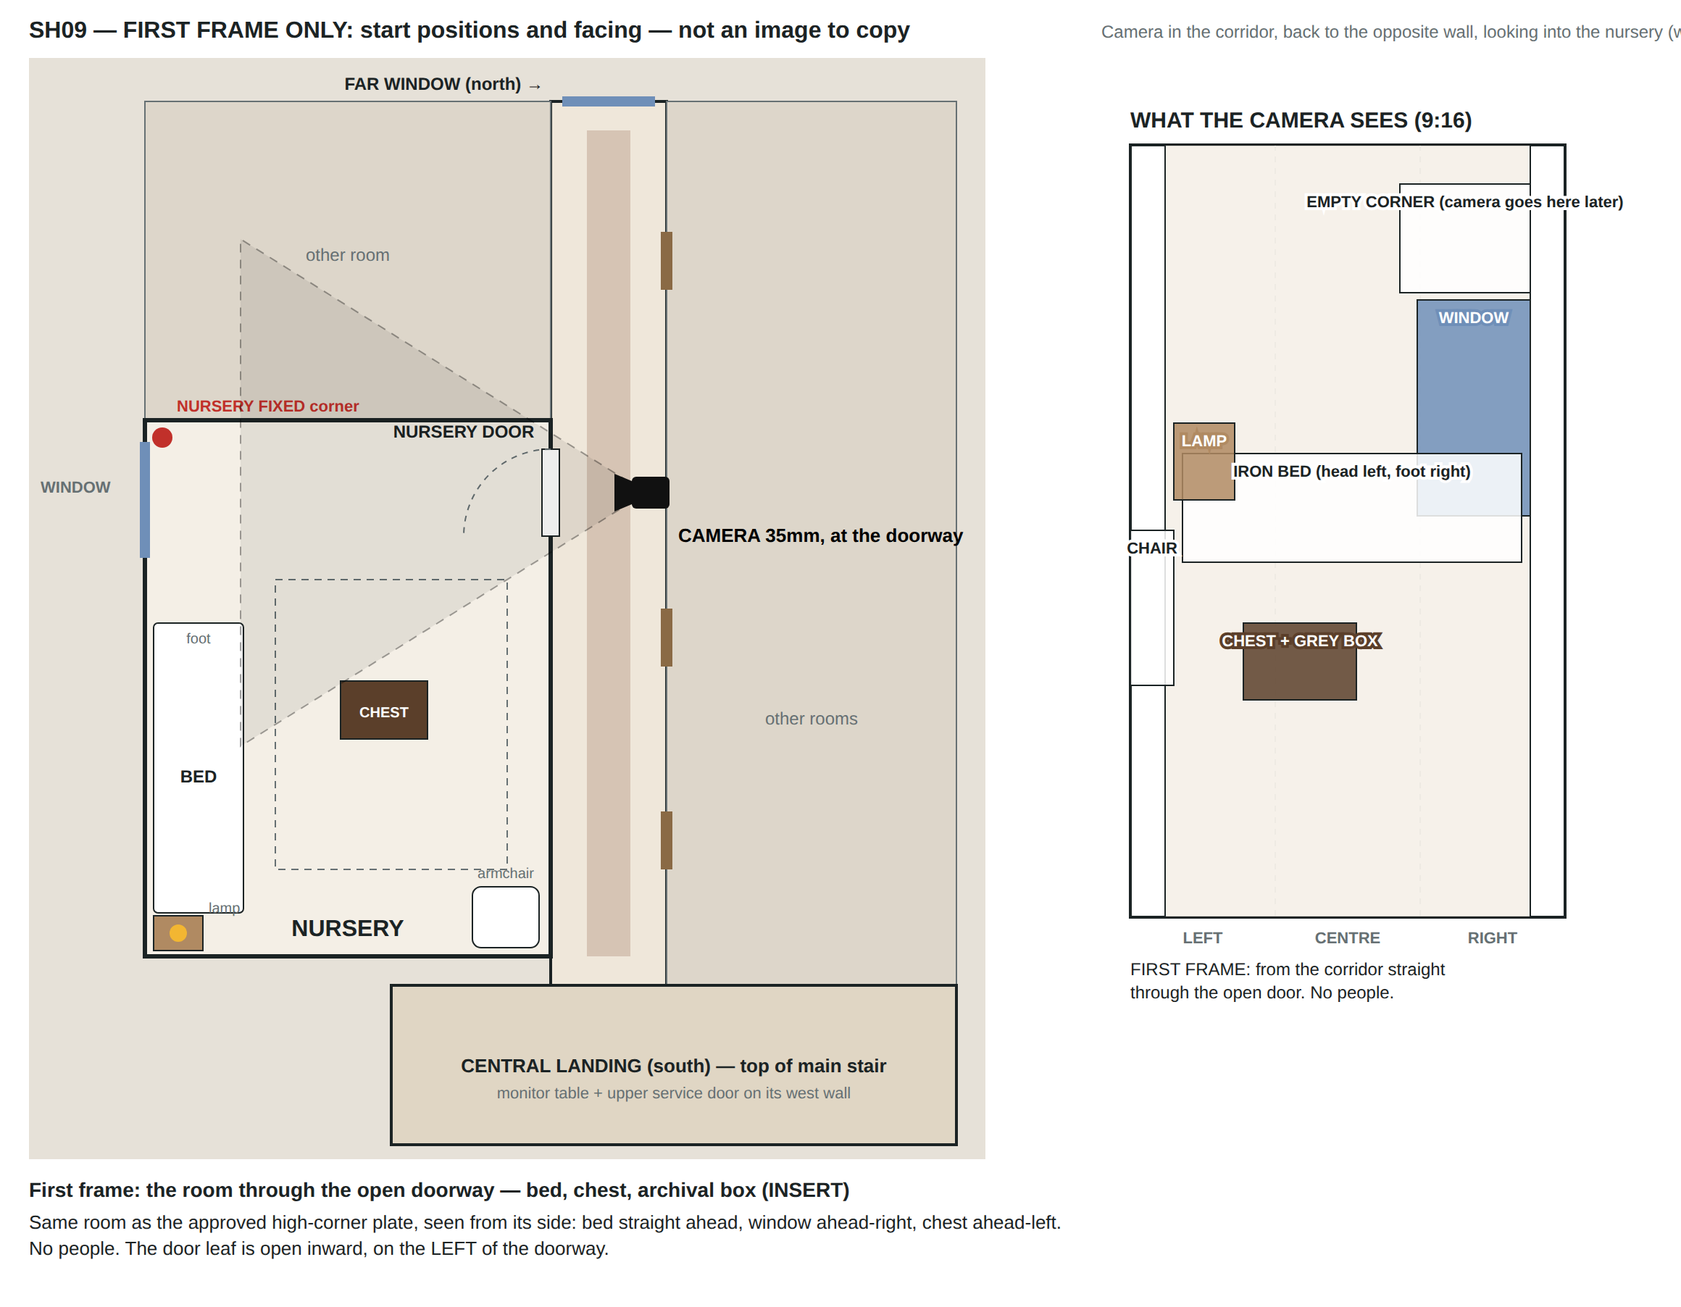
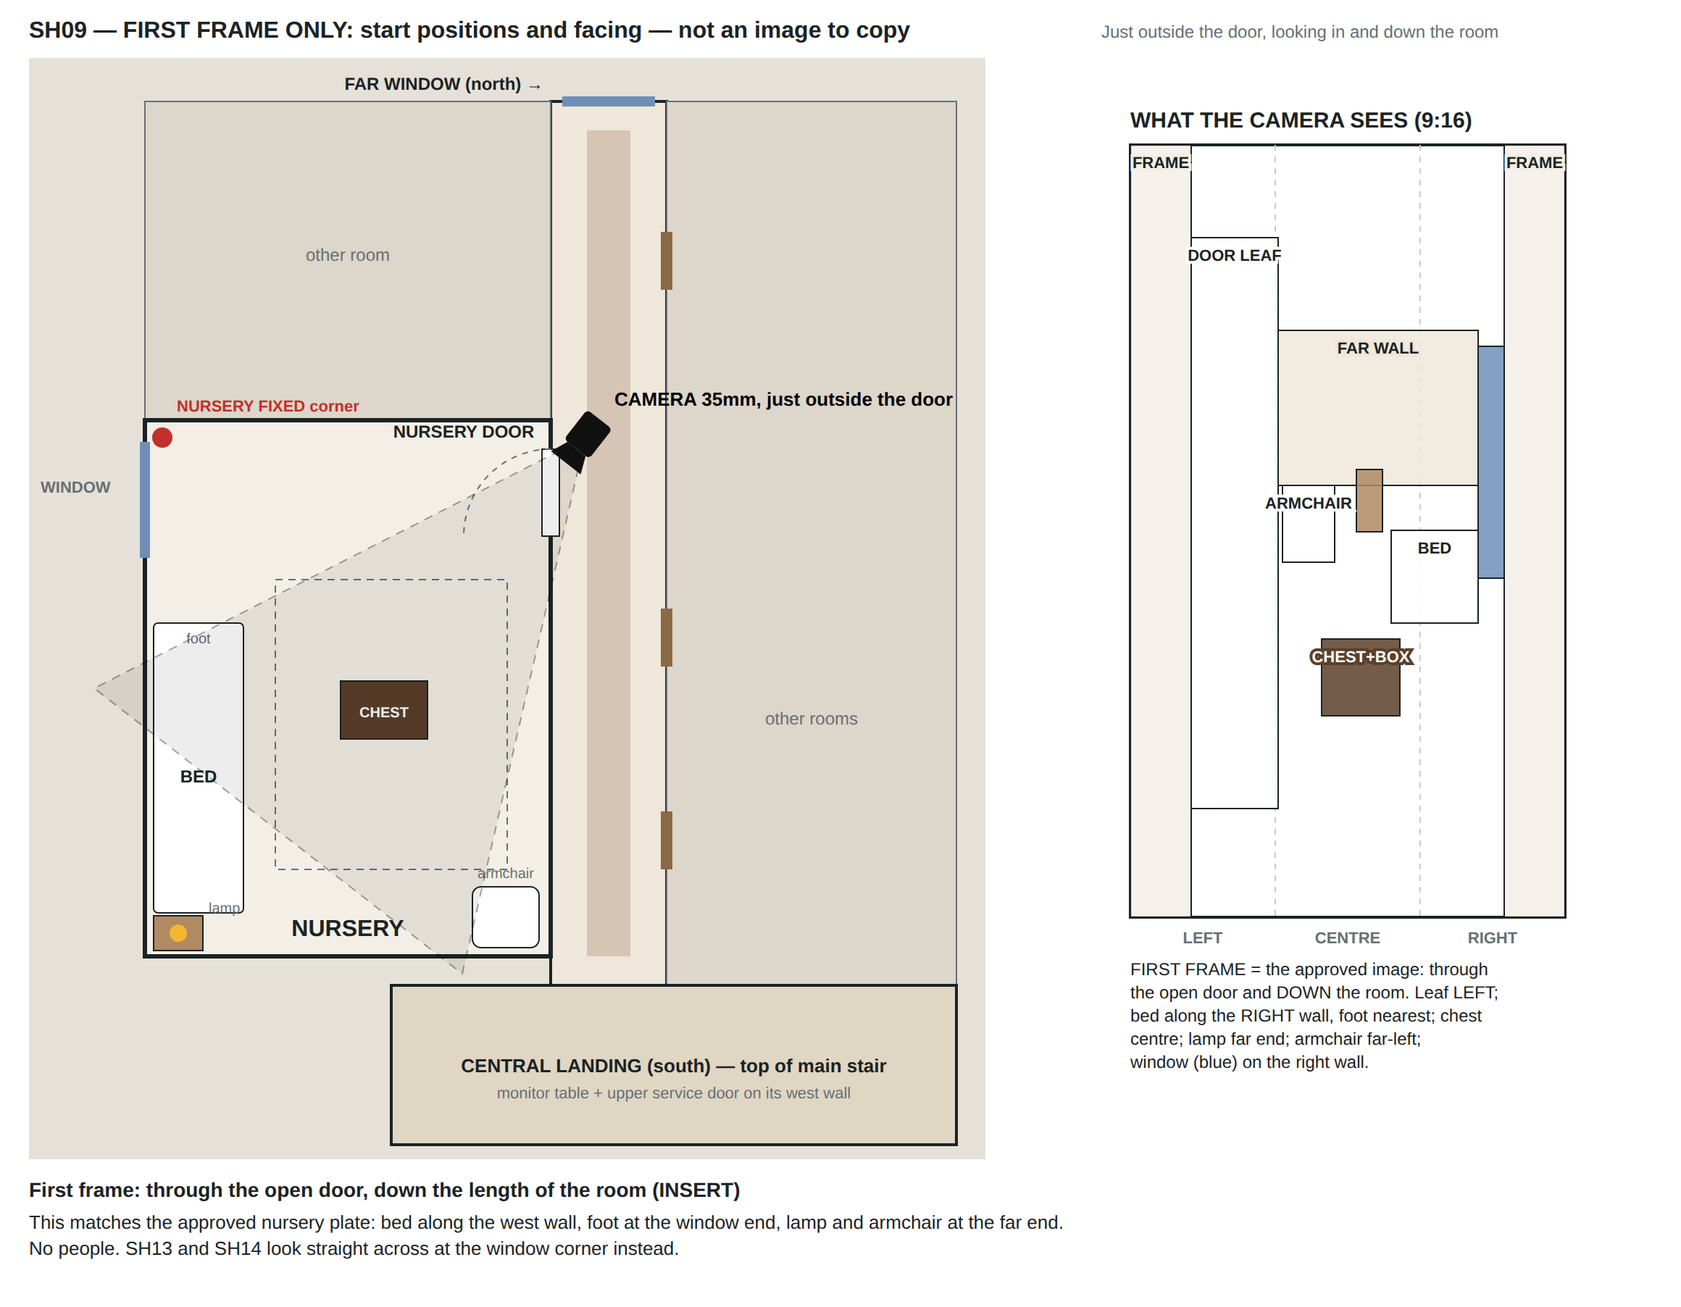
SH09: adopt the generated down-the-room doorway view as the plate
The models kept producing the nursery seen down its length (door leaf on
the left, bed along the right wall with its foot nearest, chest centre,
lamp and armchair at the far end). That is exactly what the approved
high-corner plate implies from that door, whereas the prompt asked for a
straight-across view that the uploaded plate contradicts.

- LOC_NURSERY_DOORWAY_DAY now describes the approved frame (prompt,
  checklist, note); the SH09 blocking and map match it.
- SH13 uses the high-corner plate and SH14 the corridor plate, because
  both look straight across at the window corner.
- The night doorway edit and the corridor map text are aligned. SH30 is
  flagged to show the REC light later.
- Continuity rules and notes record the lesson.

Claude-Session: https://claude.ai/code/session_01MJ23cbnzmfztqsRaFx1Dvm

diff --git a/src/data/assets.ts b/src/data/assets.ts
@@ -58,7 +58,7 @@ export const MAPS = {
   },
   corridor: {
     title: 'Upper corridor',
-    text: 'Plan (north up): the corridor runs straight from the central landing (south end) to a tall window at the far north end. The nursery lies along its LEFT (west) side when you walk from the landing toward the far window. The nursery door is in the corridor’s left wall near the NORTH end of the nursery: about six metres from the landing and about three metres before the far window. It is the same white four-panel door with a brass knob and moulded surround seen inside the nursery; it opens INTO the room and is hinged on its left as seen from the corridor. Standing in the corridor facing the open door: straight ahead the white iron bed along the room’s far wall, its foot to the right, the window with thin curtains at its right end; ahead-left the dark chest with the grey box on the rug, the bedside table and lamp at the bed head, the dust-sheeted armchair in the deep left corner; high in the corner ahead-RIGHT, above the window, is where NURSERY FIXED hangs. From the nursery door you can see down the corridor to the landing, the monitor table and the upper service door. At night one warm sconce is lit between the landing and the nursery door.',
+    text: 'Plan (north up): the corridor runs straight from the central landing (south end) to a tall window at the far north end. The nursery lies along its LEFT (west) side when you walk from the landing toward the far window. The nursery door is in the corridor’s left wall near the NORTH end of the nursery: about six metres from the landing and about three metres before the far window. It is the same white four-panel door with a brass knob and moulded surround seen inside the nursery; it opens INTO the room and is hinged on its left as seen from the corridor. Standing in the corridor facing the open door: straight ahead the white iron bed along the room’s far wall, its foot to the right, the window with thin curtains at its right end; ahead-left the dark chest with the grey box on the rug, the bedside table and lamp at the bed head, the dust-sheeted armchair in the deep left corner; high in the corner ahead-RIGHT, above the window, is where NURSERY FIXED hangs. From the nursery door you can see down the corridor to the landing, the monitor table and the upper service door. At night one warm sconce is lit between the landing and the nursery door. Looking in through the open door toward the far (landing) end of the room — the approved doorway frame used in SH09 — the door leaf is on the LEFT, the bed runs along the RIGHT wall with its foot nearest the door, the window is on the right wall beside the foot, the chest with the grey box is in the centre, the lamp is at the bed head at the far end and the dust-sheeted armchair is far-left.',
   },
   nursery: {
     title: 'Nursery (NURSERY FIXED geometry)',
@@ -597,16 +597,16 @@ export const ASSETS: Asset[] = [
   {
     file: 'LOC_NURSERY_DOORWAY_DAY.png',
     kind: 'location',
-    title: 'Nursery seen from the corridor through the doorway, day',
-    ref: 'the daytime photo taken from the corridor looking through the open white nursery door into the room',
-    prompt: `Using the uploaded high-corner nursery photo for the room, furniture and wallpaper, and the uploaded corridor photo for the corridor and the door: camera in the upper corridor with its back against the corridor wall opposite the nursery door, eye level, 35mm, looking straight through the wide-open white four-panel door (brass knob, moulded white surround, the door leaf swung open INTO the room against the inner wall on the LEFT). In the foreground a strip of corridor floor with the worn runner. Through the doorway, the same room seen from its side: straight ahead the white iron bed runs along the far wall of this view, its foot to the RIGHT and its head to the LEFT; on the right, beside the foot of the bed, the window with thin white curtains letting in daylight, and high up in the corner above it, empty wall where a camera will be mounted; ahead-left, on the faded rug in the middle of the room, the dark wooden chest with the grey archival box on its lid; at the left end of the bed, the bedside table with its lamp (switched off); deep on the left, the armchair under a white dust sheet in the corner. No camera mounted anywhere yet. No people. ${LOOKS.dayInterior}`,
+    title: 'Nursery through the open door, looking down the room, day — APPROVED frame',
+    ref: 'the daytime photo from the corridor through the open white nursery door, looking down the length of the room: door leaf open on the left, bed along the right wall, chest with the grey box in the centre',
+    prompt: `Using the uploaded high-corner nursery photo for the room, furniture and wallpaper, and the uploaded corridor photo for the corridor floor and the door: photorealistic, vertical 9:16, no people. Camera in the upper corridor just outside the open nursery door, eye level, 35mm, looking in through the doorway and down the length of the room toward its far end. The white door with its brass knob stands wide open INTO the room, hinged on the LEFT, its leaf against the wall on the LEFT of the doorway; the moulded white surround frames the view; in the foreground the dark corridor floorboards and the edge of the worn runner. Inside, the room runs away from the door: the faded rug from the threshold, with the dark wooden chest at the centre of the frame and the grey archival box on its lid; the white iron bed with faded floral linen along the RIGHT-hand wall, its foot nearest the door and its head at the far wall; the window with thin white curtains on the right-hand wall beside the foot of the bed, letting in soft daylight; at the far end the small bedside table with its lamp (switched off) beside the head of the bed, and in the far-LEFT corner an armchair under a white dust sheet with two removal boxes beside it. Pale sprigged wallpaper with pale rectangles where pictures hung. No camera mounted anywhere, no people. ${LOOKS.dayInterior}`,
     uploads: [
       { file: 'LOC_NURSERY_FIXED_DAY.png', job: 'the room: furniture, wallpaper, positions' },
       { file: 'LOC_CORRIDOR_DAY.png', job: 'the corridor floor, runner and door' },
     ],
-    check: ['Door leaf open inward on the LEFT', 'Bed straight ahead, foot to the right; window and curtains ahead-right', 'Chest with the grey box ahead-left on the rug; bedside table and lamp at the bed head; armchair deep left', 'The high corner ahead-right above the window is empty (no camera yet)', 'Same door, wallpaper, bed and chest as the high-corner photo'],
+    check: ['Door leaf open inward on the LEFT, hinged on the left', 'Looking DOWN the room: bed along the RIGHT wall, foot nearest the door, head at the far wall', 'Window with thin curtains on the right wall beside the foot of the bed', 'Chest with the grey box at the centre on the rug; lamp table at the bed head; dust-sheeted armchair far-LEFT', 'Same door (panels, brass knob), wallpaper, bed and chest as the high-corner photo', 'No camera, no people'],
     group: 'Nursery',
-    note: 'Used for SH09 (clean view), SH13 (handheld POV) and SH14–SH16 (corridor angle). From the corridor, the landing is to the LEFT.',
+    note: 'APPROVED: the generated frame that looks down the room is correct and matches the high-corner plate. Keep it; regenerate only if the door does not match the nursery door (check the panel count against the high-corner photo). Start frame of SH09 only. SH13 and SH14 look straight across the room at the window corner instead, so they do not use this image as their frame.',
   },
   {
     file: 'LOC_NURSERY_DOORWAY_NIGHT.png',
@@ -614,7 +614,7 @@ export const ASSETS: Asset[] = [
     title: 'Nursery seen from the corridor through the doorway, night (edit)',
     ref: 'the night photo taken from the corridor looking through the open white nursery door, with the lamp on inside and a small red camera light high in the far corner',
     editOf: 'LOC_NURSERY_DOORWAY_DAY.png',
-    prompt: 'Edit the uploaded photo looking from the corridor through the open nursery door: identical camera and geometry, nothing moved. Night: inside, the small lamp on the bedside table at the head of the bed (ahead-left) is ON, making a dim warm pool over the bed head, the rug and the chest with the grey box; the window ahead-right is dark with a faint cool edge on the curtains; high in the corner ahead-right above the window there is now a compact black camera on a small wall bracket with a small glowing red REC light. The corridor foreground is in dim warm sconce light. Deep readable shadow. No people, no text.',
+    prompt: 'Edit the uploaded photo looking from the corridor through the open nursery door and down the room: identical camera and geometry, nothing moved. Night: inside, the small lamp on the bedside table at the far end beside the head of the bed is ON, making a dim warm pool over the bed head, the rug and the chest with the grey box; the window on the right wall is dark with a faint cool edge on the curtains; high on the right, where the right-hand wall meets the door wall just out of view, a faint red glow from the small camera light touches the ceiling edge. The corridor foreground is in dim warm sconce light. Deep readable shadow. No people, no text.',
     uploads: [
       { file: 'LOC_NURSERY_DOORWAY_DAY.png', job: 'exact geometry' },
       { file: 'PROP_FIXED_CAM.png', job: 'the camera on its wall bracket' },

diff --git a/src/data/shots.ts b/src/data/shots.ts
@@ -546,7 +546,7 @@ export const SHOTS: Shot[] = [
     lens: '35mm',
     size: 'INSERT',
     setup: 'COR-DOOR through the doorway',
-    blocking: 'Plate framing: from the corridor straight through the open white door into the nursery. The iron bed straight ahead along the far wall (foot to the right), the window and curtains ahead-right, the chest with the grey box ahead-left on the rug, the bedside table and lamp at the bed head, the dust-sheeted armchair deep left; the high corner ahead-right above the window is still empty.',
+    blocking: 'Plate framing (the approved frame): from the corridor through the open white door and down the length of the nursery. The door leaf open on the LEFT; the bed along the RIGHT wall, foot nearest the door; the window with thin curtains on the right wall beside the foot of the bed; the chest with the grey box at the centre on the rug; the lamp table at the bed head at the far end; the dust-sheeted armchair far-left. No camera mounted yet.',
     states: [{ thing: 'nurseryDoor', start: 'ALREADY WIDE OPEN' }],
     people: [],
     map: '/maps/SH09_map.png',
@@ -557,7 +557,7 @@ export const SHOTS: Shot[] = [
       saveAs: 'LOC_NURSERY_DOORWAY_DAY.png',
     },
     video: {
-      camera: 'Gimbal gliding slowly left to right past the open doorway at eye level.',
+      camera: 'Gimbal drifting slowly and slightly to the right at eye level, as if walking past the open doorway.',
       setting: 'A small, sunlit child’s room seen from the corridor.',
       beats: [
         { t: [0, 3], text: 'The camera glides past the open doorway, holding one clean view into the room: the simple white iron bed, the low wooden chest, the grey archival box on its lid. Dust hangs in the pale light. Nothing in the room moves.' },
@@ -704,7 +704,7 @@ export const SHOTS: Shot[] = [
     title: 'Handheld from Elias at the doorway: Mara mounts NURSERY FIXED in the high corner; its preview shows door, box and open depth.',
     cam: 'handheld',
     operator: 'elias',
-    location: 'LOC_NURSERY_DOORWAY_DAY.png',
+    location: 'LOC_NURSERY_FIXED_DAY.png',
     time: 'day',
     lens: '35mm',
     size: 'MS',
@@ -719,7 +719,7 @@ export const SHOTS: Shot[] = [
     map: '/maps/SH13_map.png',
     kf: {
       mode: 'generate',
-      uploads: [up('LOC_NURSERY_DOORWAY_DAY.png', 'the room seen from the doorway — keep'), sheet('mara'), up('PROP_FIXED_CAM.png', 'the camera on its wall bracket'), mapUp('SH13')],
+      uploads: [up('LOC_NURSERY_FIXED_DAY.png', 'the same room: wallpaper, window, bed and chest — this shot looks from the doorway straight across at the corner where that photo was taken from'), sheet('mara'), up('PROP_FIXED_CAM.png', 'the camera on its wall bracket'), mapUp('SH13')],
       frame: 'Concentrated, quick, precise hands.',
       saveAs: 'KF_SH13.png',
     },
@@ -745,7 +745,7 @@ export const SHOTS: Shot[] = [
     covers: ['D3', 'D4', 'D5'],
     title: 'Corridor angle: Owen passes with BELL BOARD FIXED and his pouch, Naomi behind with her recorder. ELIAS: “Very polite house so far.” MARA: “You’ve been here twenty minutes.”',
     cam: 'tripod',
-    location: 'LOC_NURSERY_DOORWAY_DAY.png',
+    location: 'LOC_CORRIDOR_DAY.png',
     time: 'day',
     lens: '35mm',
     size: 'MWS',
@@ -763,7 +763,7 @@ export const SHOTS: Shot[] = [
     map: '/maps/SH14_map.png',
     kf: {
       mode: 'generate',
-      uploads: [up('LOC_NURSERY_DOORWAY_DAY.png', 'corridor, doorway and room — keep'), sheet('elias'), sheet('owen'), up('CH_LINEUP.png', 'identities of the woman in the corner and the woman with locs, and everyone’s heights'), mapUp('SH14')],
+      uploads: [up('LOC_CORRIDOR_DAY.png', 'the corridor, the white nursery door and its surround, wallpaper and floor — seen here from across the corridor, facing the open doorway'), sheet('elias'), sheet('owen'), up('CH_LINEUP.png', 'identities of the woman in the corner and the woman with locs, and everyone’s heights'), mapUp('SH14')],
       frame: 'Relaxed crew banter while everyone keeps working.',
       saveAs: 'KF_SH14.png',
     },

diff --git a/src/data/notes.ts b/src/data/notes.ts
@@ -9,6 +9,11 @@ export interface Note {
 
 export const OLD_PACK_PROBLEMS: Note[] = [
   {
+    title: 'SH09 asked for a view the approved plate contradicts',
+    body: 'The doorway plate asked for the room seen straight across (bed side-on along the far wall) while uploading the approved high-corner photo. Every model instead produced the view down the length of the room: door leaf on the left, bed along the right wall with its foot nearest, chest centre, lamp and armchair at the far end. That view is geometrically correct for this room and this door.',
+    fix: 'The generated frame is adopted as LOC_NURSERY_DOORWAY_DAY and its prompt, checklist, the SH09 blocking and the SH09 map now describe it. SH13 and SH14, which look straight across at the window corner, no longer use it as their frame: SH13 uses the high-corner plate for the room, SH14 the corridor plate. The night doorway edit was aligned (the camera corner is just out of view on the right); SH30 must be staged to show the red REC light when we get there.',
+  },
+  {
     title: 'Full audit of SH01–SH20: states, props and hands that did not carry over',
     body: 'Reading every generated prompt in order found:\n• SH08: the nursery door is open in the script (“the open nursery door”) but the prompt never said it was already open and untouched, so a model could have her open it. The prompt also said 24mm while the lens was 35mm, and put the women “one step before” a door they walk 2.5s to reach.\n• SH02–SH04: the small woman lifted her case out in SH02, then it was back in the boot in SH04. The bearded man was “unloading” in SH03 and dragging a case out in SH04 after he had already set it down.\n• SH02: the bearded man was facing frame-right and turning to frame-left in the same frame.\n• SH06→SH07: the case moved from his left hand to his right. SH17→SH18: the pouch and camera moved hands.\n• SH07 and SH12: raising a camera that was already raised.\n• SH12→SH16: the monitor case appeared on the nursery floor with nobody carrying it in.\n• SH18: the small woman picked up a camera across the room in one second.\n• SH19: a hands-only insert was sent the full wardrobe, cap included.\n• SH09 showed no image prompt, because it uses a plate.\n• SH01 needs three later-shot images first; this was nowhere stated.',
     fix: 'All fixed in the shot data. Doors and key props now have a start and end state per shot that is printed in both prompts. A continuity check fails the build when a state jumps without an explanation. Plate-mode shots show the plate’s own prompt and checklist on the shot card. Hands-only views get only hand, forearm and cuff. The test scope warns when it needs images from later shots.',

diff --git a/scripts/shot_maps.py b/scripts/shot_maps.py
@@ -376,20 +376,22 @@ maps['SH08'] = svg('SH08', 'First frame: the two women far down the corridor; th
 
 # ---------------- SH09 ----------------
 plan = upper_plan()
-plan += camera(426, 300, 180, 64, 330, 'CAMERA 35mm, at the doorway', None)
+plan += camera(384, 262, 128, 50, 380, 'CAMERA 35mm, just outside the door', None, ldx=20, ldy=-22)
 frame = frame_panel(760, 60, [
-    ('box', 0.08, 0.0, 0.84, 1.0, '', '#f4efe6'),
-    ('box', 0.62, 0.05, 0.3, 0.14, 'EMPTY CORNER (camera goes here later)', '#ffffff'),
-    ('box', 0.66, 0.2, 0.26, 0.28, 'WINDOW', '#6f8fb8'),
-    ('box', 0.12, 0.4, 0.78, 0.14, 'IRON BED (head left, foot right)', '#ffffff'),
-    ('box', 0.1, 0.36, 0.14, 0.1, 'LAMP', '#b08a62'),
-    ('box', 0.26, 0.62, 0.26, 0.1, 'CHEST + GREY BOX', '#5b3f2a'),
-    ('box', 0.0, 0.5, 0.1, 0.2, 'CHAIR', '#ffffff'),
-], ['FIRST FRAME: from the corridor straight', 'through the open door. No people.'])
-maps['SH09'] = svg('SH09', 'First frame: the room through the open doorway — bed, chest, archival box (INSERT)',
-                   'Camera in the corridor, back to the opposite wall, looking into the nursery (west)', plan, frame,
-                   ['Same room as the approved high-corner plate, seen from its side: bed straight ahead, window ahead-right, chest ahead-left.',
-                    'No people. The door leaf is open inward, on the LEFT of the doorway.'])
+    ('box', 0.0, 0.0, 0.14, 1.0, 'FRAME', '#f4efe6'),
+    ('box', 0.86, 0.0, 0.14, 1.0, 'FRAME', '#f4efe6'),
+    ('box', 0.14, 0.12, 0.2, 0.74, 'DOOR LEAF', '#ffffff'),
+    ('box', 0.34, 0.24, 0.46, 0.2, 'FAR WALL', '#efe7da'),
+    ('box', 0.35, 0.44, 0.12, 0.1, 'ARMCHAIR', '#ffffff'),
+    ('box', 0.52, 0.42, 0.06, 0.08, '', '#b08a62'),
+    ('box', 0.6, 0.5, 0.2, 0.12, 'BED', '#ffffff'),
+    ('box', 0.8, 0.26, 0.06, 0.3, '', '#6f8fb8'),
+    ('box', 0.44, 0.64, 0.18, 0.1, 'CHEST+BOX', '#5b3f2a'),
+], ['FIRST FRAME = the approved image: through', 'the open door and DOWN the room. Leaf LEFT;', 'bed along the RIGHT wall, foot nearest; chest', 'centre; lamp far end; armchair far-left;', 'window (blue) on the right wall.'])
+maps['SH09'] = svg('SH09', 'First frame: through the open door, down the length of the room (INSERT)',
+                   'Just outside the door, looking in and down the room', plan, frame,
+                   ['This matches the approved nursery plate: bed along the west wall, foot at the window end, lamp and armchair at the far end.',
+                    'No people. SH13 and SH14 look straight across at the window corner instead.'])
 
 # ---------------- SH10 ----------------
 plan = upper_plan()

diff --git a/docs/CONTINUITY_RULES.md b/docs/CONTINUITY_RULES.md
@@ -162,6 +162,12 @@ These failed in real tests. Each one is now a hard rule.
   sign” next to a board that must carry one readable label). Glimpses of other rooms must
   repeat that room’s look (the hall through a door: dust sheets, pale rectangles, no
   portraits or flowers).
+- **When every model keeps giving the same “wrong” view, check whether it is right.** SH09
+  asked for the nursery seen straight across from the doorway, while uploading the approved
+  plate. The models kept producing the view down the length of the room — which is exactly
+  what that plate implies from that door. Derive other angles from the approved plate’s
+  geometry, and when a generated frame is consistent, adopt it as the reference instead of
+  forcing a view the references contradict.
 - **Old references override new text.** If a sheet or plate changed, regenerate it before
   generating anything that uploads it.
 
